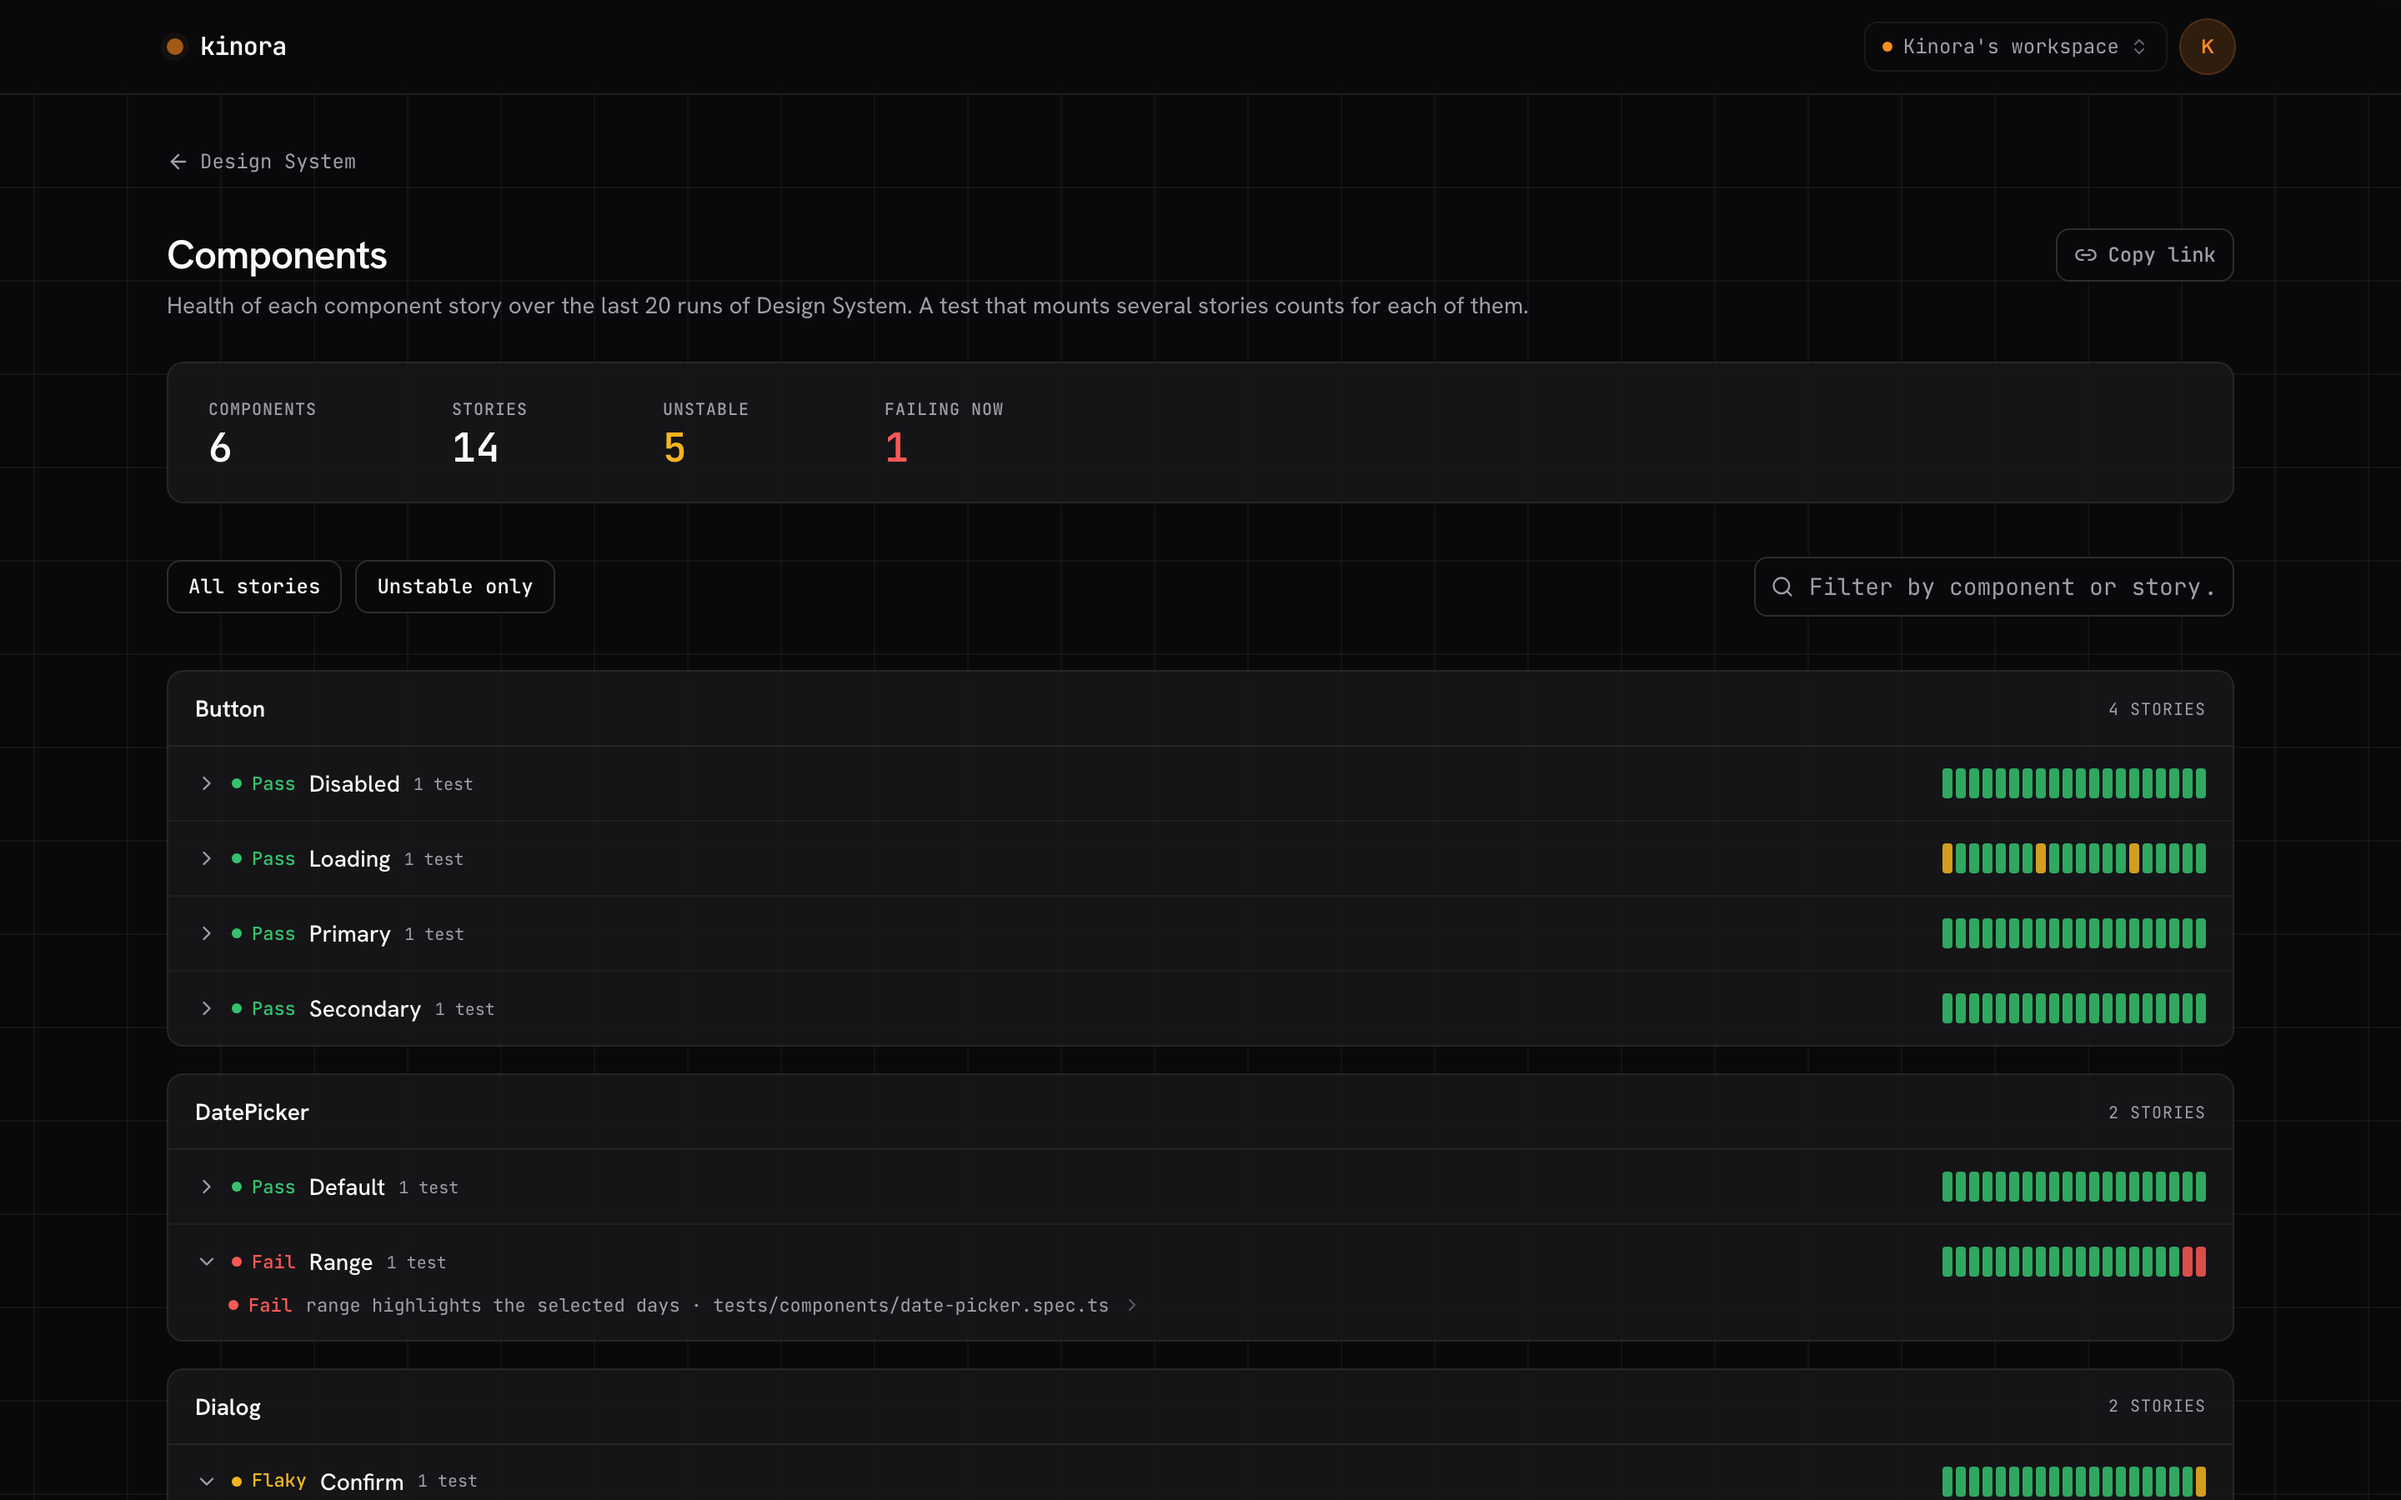
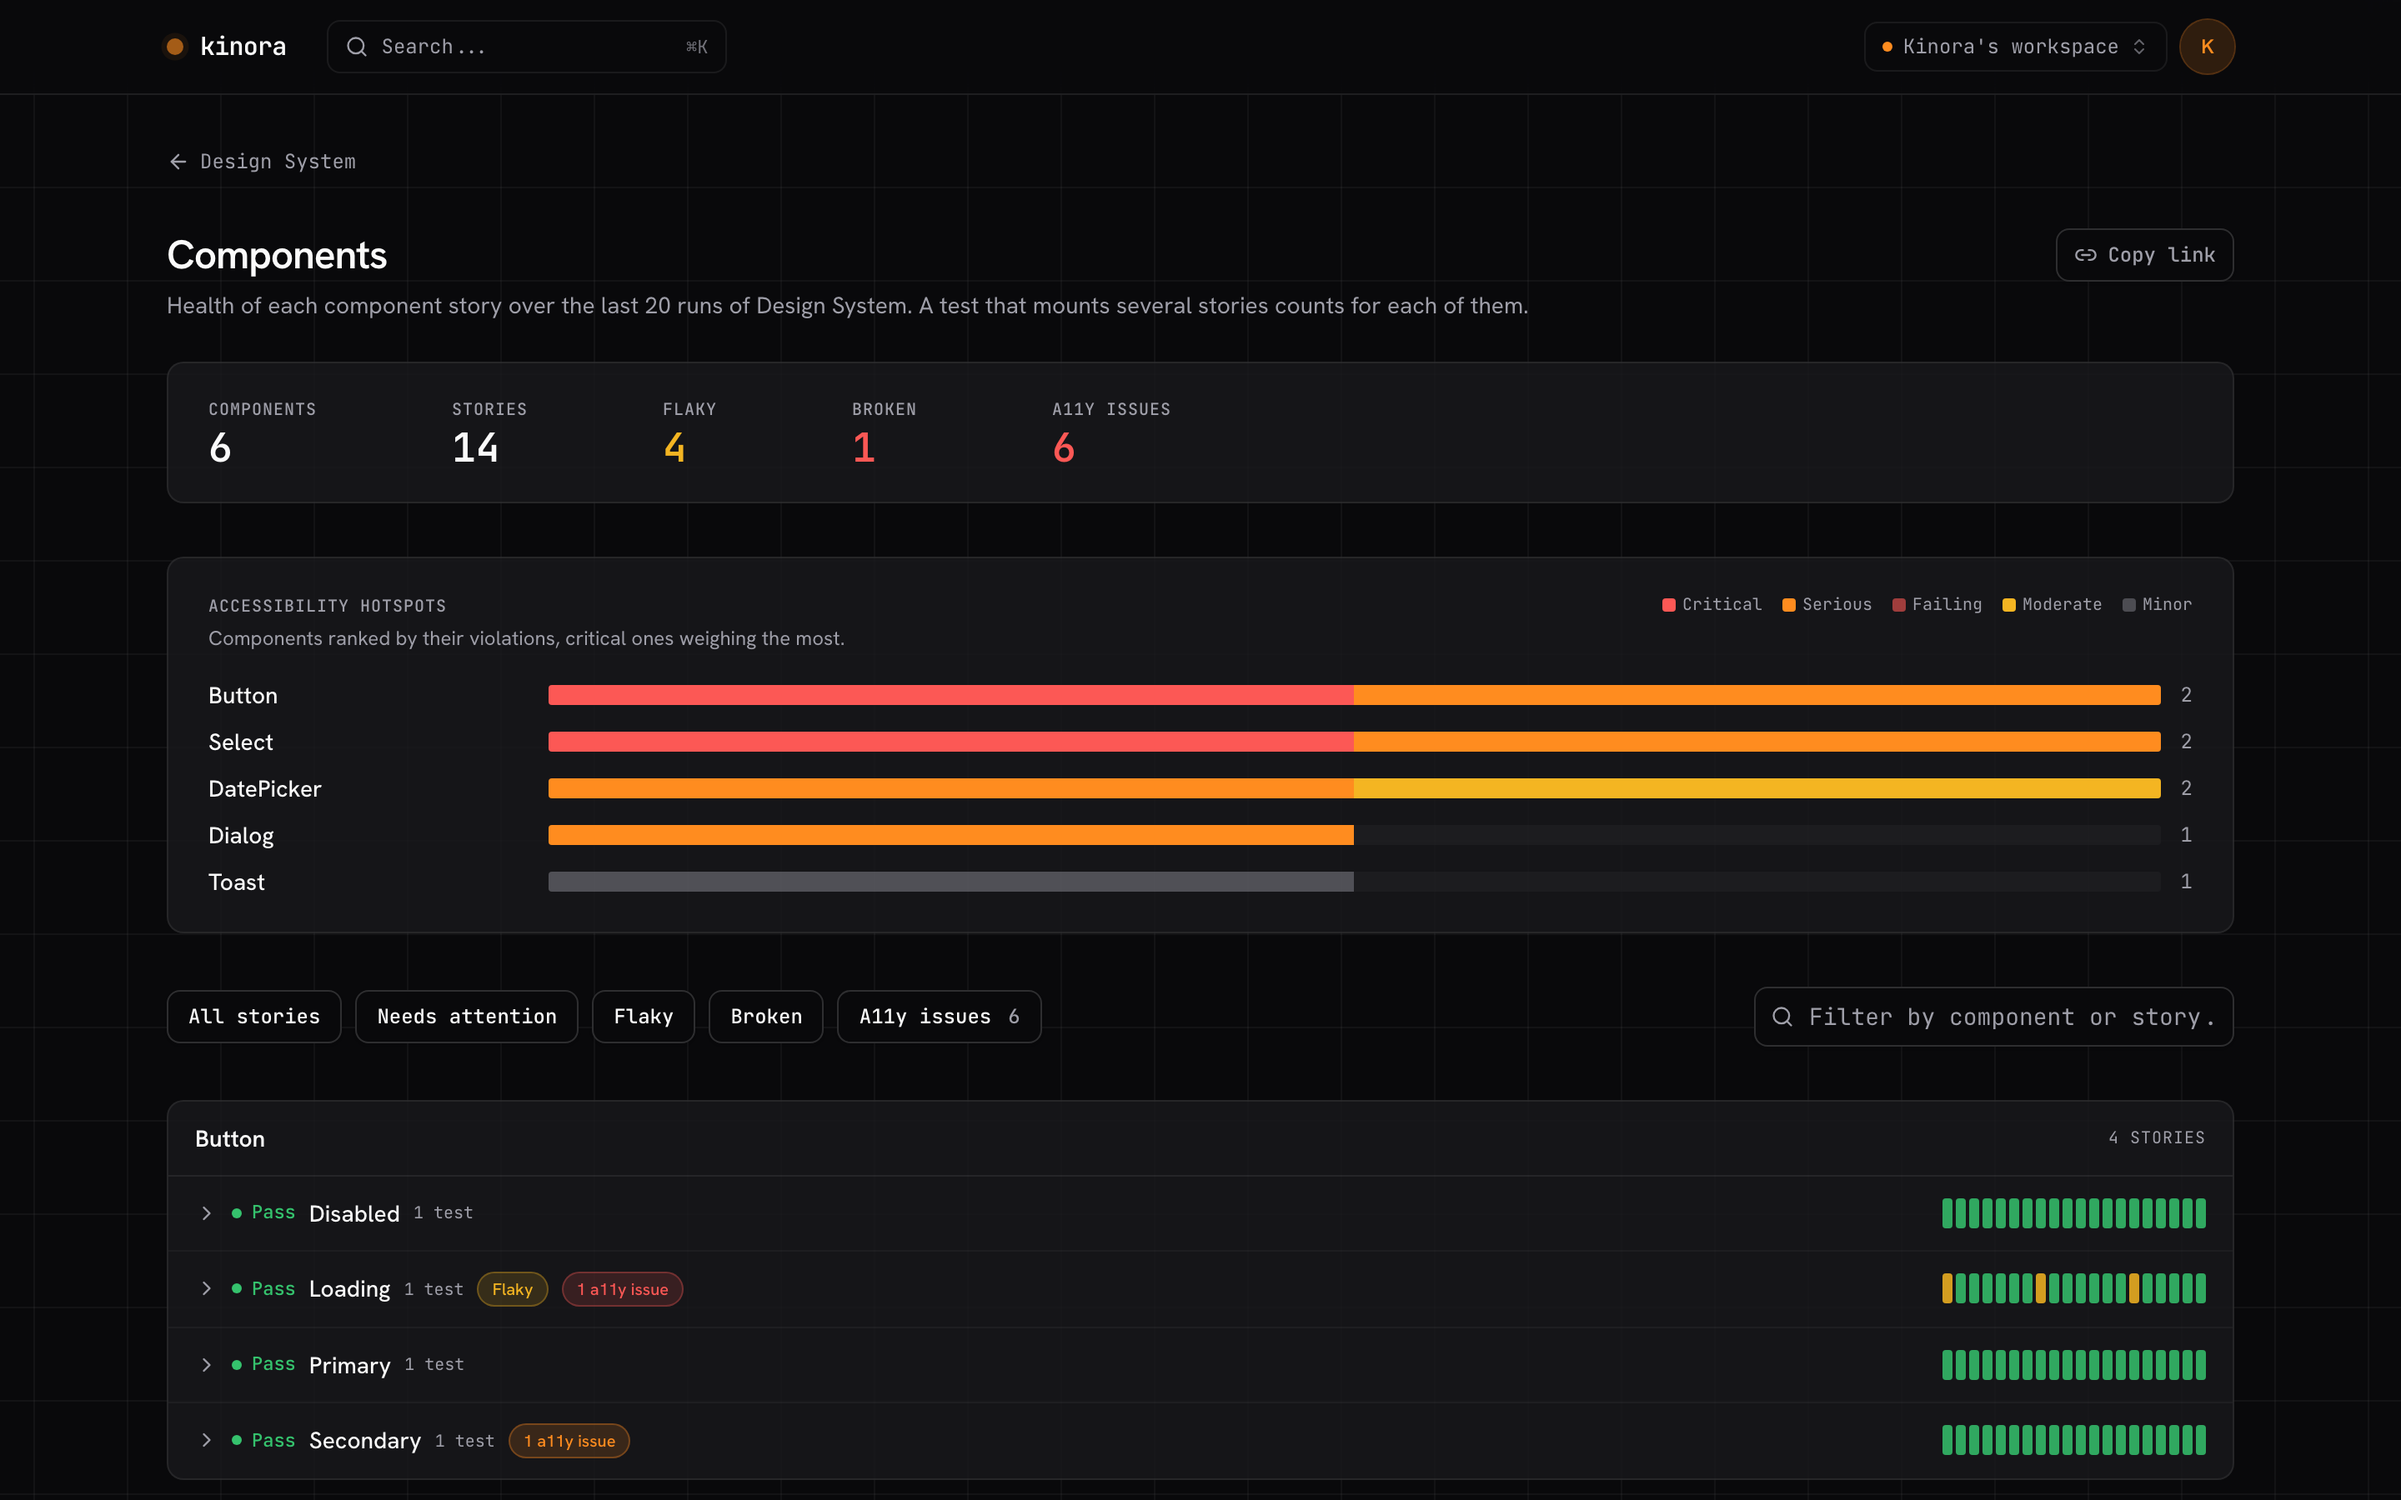
docs(website): cover analytics, flaky vs broken and accessibility, and refresh screenshots

diff --git a/website/src/pages/llms.txt.ts b/website/src/pages/llms.txt.ts
@@ -16,7 +16,7 @@ export const GET: APIRoute = () => {
 
   const body = `# kinora
 
-> kinora is an open-source dashboard for Playwright test reports across projects and over time, with an embedded trace viewer. CI runs push their results to kinora; it tracks pass rates, trends, and flaky tests, and opens the full Playwright trace inline for any failure.
+> kinora is an open-source dashboard for Playwright, Vitest browser-mode and Storybook test reports across projects and over time, with an embedded trace viewer. CI runs push their results to kinora; it tracks pass rates, trends, flaky and broken tests, and accessibility violations, and opens the full Playwright trace inline for any failure.
 
 Playwright ships a great HTML report for a single run on one machine. kinora sits one level up: it ingests every run from CI, keeps history, and lets you compare runs, watch pass-rate trends, and surface flaky tests over time. The Playwright trace viewer is embedded directly in the dashboard, so a red test is one click from its full trace.
 
@@ -45,6 +45,9 @@ ${comparisons}
 - License: FSL-1.1-MIT. Server, web, and desktop are FSL-1.1 (source-available, converts to MIT after 2 years); the embeddable libraries (reporter, CLI, core, ui) and the trace viewer are MIT.
 - Ingest: add @kinora/reporter to playwright.config, or upload results.json with the kinora CLI from CI. Both derive the same cross-run test identity, so history stays stable regardless of upload path.
 - Vitest and Storybook: add @kinora/vitest-reporter to vitest.config. It uploads browser-mode and Storybook tests (Node unit tests only with include: 'all'), their Playwright traces and screenshot comparisons, and maps each Storybook story to the Components page.
+- Flaky and broken tests: read from the last 20 runs of each test. Flaky = passed and failed on the same commit, needed a retry to pass, or flipped between pass and fail at least 3 times, so it works for suites that run without retries. Broken = fails and keeps failing; kinora names the run and commit where it started. Docs: ${SITE.docs}/guides/flaky-tests/
+- Analytics: per project, the share of passed, flaky and failed results over the last 30 days (per day) or 90 days (per week), filterable by branch.
+- Accessibility: kinora records axe scans. Playwright: attach the scan to the test as JSON (testInfo.attach), or call scanA11y(page) from @kinora/reporter/a11y, which runs @axe-core/playwright and attaches the result; asserting on the violations fails the test, not asserting keeps them as warnings. Storybook: the a11y addon's check is uploaded by @kinora/vitest-reporter. The dashboard lists violations by impact (critical, serious, moderate, minor) and ranks test files and components by them. Docs: ${SITE.docs}/guides/reporter/#accessibility
 - Artifacts: trace.zip files are stored on local disk by default, or in any S3-compatible store (AWS, Cloudflare R2, MinIO, Hetzner). Self-hosted, everything stays on your own infrastructure.
 - Alerts: per-project notifications on new failures and regressions via Slack, email, and webhook.
 - PR comments: on a GitHub pull_request run or a GitLab merge request pipeline, the reporter/CLI post a summary comment on the PR/MR (pass/fail, tests newly failing vs the base branch, link to the run). GitHub uses the CI job's GITHUB_TOKEN; GitLab uses a GITLAB_TOKEN CI variable. No credentials are stored in kinora; works self-host and cloud.

diff --git a/website/src/data/solutions.ts b/website/src/data/solutions.ts
@@ -124,6 +124,15 @@ export const SOLUTIONS: Solution[] = [
         body: 'Tests that flip between pass and fail across runs are surfaced and ranked, not buried inside a single run\'s retries.',
       },
       {
+        title: 'Flaky or broken',
+        body: 'A test that fails and keeps failing since a commit is broken, not flaky. kinora tells the two apart, says why, and names the commit where the breakage started.',
+        docs: [{ label: 'Flaky and broken tests', href: DOCS.flakyTests, event: 'docs-sol-flaky-rules' }],
+      },
+      {
+        title: 'No retries needed',
+        body: 'Playwright only reports a flake when a retry passes. kinora also reads it from the history: the same commit passing and failing, or a test that keeps flipping.',
+      },
+      {
         title: 'History behind every flake',
         body: 'See the full pass/fail timeline for a test to judge how bad a flake really is before you spend time on it.',
       },
@@ -140,7 +149,12 @@ export const SOLUTIONS: Solution[] = [
     faqs: [
       {
         q: 'How does kinora detect flaky tests?',
-        a: 'It compares each test\'s outcome across your run history. Tests that change status without a code change are flagged as flaky and ranked by how often they flip.',
+        a: 'It reads the last 20 runs of each test. A test is flaky when it passed and failed on the same commit, needed a retry to pass, or flipped between pass and fail at least 3 times. One bad run between two good ones is not enough: that is often a regression the next commit fixed.',
+        docs: [{ label: 'Flaky and broken tests', href: DOCS.flakyTests, event: 'docs-sol-flaky-faq' }],
+      },
+      {
+        q: 'What is the difference between a flaky and a broken test?',
+        a: 'A flaky test passes and fails on the same code: stabilize it or quarantine it. A broken test fails and keeps failing because a change broke it: fix it. kinora flags each test as one or the other and links a broken test to the run and commit where it started failing.',
       },
       {
         q: 'Can I get alerted about new flaky tests?',

diff --git a/website/src/pages/llms/setup.md.ts b/website/src/pages/llms/setup.md.ts
@@ -124,6 +124,27 @@ export default defineConfig({
 
 Only browser tests are uploaded; Node unit tests stay out unless the user asks for \`include: 'all'\`. If browser mode uses the Playwright provider, set \`trace: 'retain-on-failure'\` in its \`browser\` config so failures upload a trace, and do not set a custom \`tracesDir\`. Wire \`KINORA_TOKEN\` (and \`KINORA_URL\` for self-host) exactly as in the reporter path.
 
+## Accessibility (optional)
+
+Only if the repo already scans pages with \`@axe-core/playwright\` (search for \`AxeBuilder\`), or the user asks for accessibility tracking. kinora reads an axe scan from the test's attachments, so a scan that is only asserted on (\`expect(results.violations).toEqual([])\`) is invisible to it. Either attach the result before the assertion:
+
+\`\`\`ts
+const results = await new AxeBuilder({ page }).analyze()
+await testInfo.attach('accessibility-scan-results', { body: JSON.stringify(results), contentType: 'application/json' })
+expect(results.violations).toEqual([])
+\`\`\`
+
+or replace the scan with the reporter's helper, which runs it and attaches it (it needs \`@axe-core/playwright\` as a dev dependency):
+
+\`\`\`ts
+import { scanA11y } from '@kinora/reporter/a11y'
+
+const { violations } = await scanA11y(page)
+expect(violations).toEqual([])
+\`\`\`
+
+Keep existing assertions as they are: do not add or remove one, since that changes whether CI fails on violations. With Storybook's a11y addon and \`@kinora/vitest-reporter\`, nothing to do: the check of each story is uploaded as is.
+
 ## Done checklist
 
 - [ ] \`@kinora/reporter\` (or the CLI, or \`@kinora/vitest-reporter\`) is installed as a dev dependency.

diff --git a/website/src/data/faq.ts b/website/src/data/faq.ts
@@ -41,6 +41,16 @@ export const HOME_FAQS: Faq[] = [
     docs: [{ label: 'Vitest and Storybook guide', href: DOCS.vitest, event: 'docs-faq-vitest' }],
   },
   {
+    q: 'How does kinora detect flaky tests?',
+    a: 'Over the last 20 runs of a test. It is flaky when it passed and failed on the same commit, needed a retry to pass, or keeps flipping between pass and fail, so flakiness shows even when your suite runs without retries. A test that fails and keeps failing is broken instead, and kinora names the commit where it started.',
+    docs: [{ label: 'Flaky and broken tests', href: DOCS.flakyTests, event: 'docs-faq-flaky' }],
+  },
+  {
+    q: 'Does kinora track accessibility?',
+    a: 'Yes. It records the axe scans of your Playwright tests (attach the scan to the test, or use the scanA11y helper of @kinora/reporter) and the checks of Storybook\'s a11y addon. You get the rules broken with their impact, the elements they hit, and hotspots that rank your test files and components by violations. Violations can fail the test or stay warnings.',
+    docs: [{ label: 'Accessibility guide', href: DOCS.a11y, event: 'docs-faq-a11y' }],
+  },
+  {
     q: 'Does kinora work with my CI provider?',
     a: 'Yes, kinora is CI-agnostic. The ingest API is plain REST authed by an API key, so any CI provider such as GitHub Actions or GitLab CI, or a plain curl command, can push results.',
     docs: [{ label: 'REST API reference', href: DOCS.api, event: 'docs-faq-api' }],

diff --git a/website/src/lib/site.ts b/website/src/lib/site.ts
@@ -25,6 +25,8 @@ export const DOCS = {
   gettingStarted: `${SITE.docs}/getting-started/`,
   reporter: `${SITE.docs}/guides/reporter/`,
   vitest: `${SITE.docs}/guides/vitest/`,
+  flakyTests: `${SITE.docs}/guides/flaky-tests/`,
+  a11y: `${SITE.docs}/guides/reporter/#accessibility`,
   cli: `${SITE.docs}/guides/cli/`,
   mcp: `${SITE.docs}/guides/mcp/`,
   desktop: `${SITE.docs}/guides/desktop/`,

diff --git a/packages/reporter/README.md b/packages/reporter/README.md
@@ -71,6 +71,28 @@ Each mounted story id is recorded on the test as a `kinora:story` annotation. Al
 
 More in the [component testing guide](https://docs.kinora.dev/guides/component-testing/).
 
+## Accessibility
+
+kinora records the axe scans attached to a test: the rules broken, their impact and the elements
+they hit. `scanA11y` runs the scan with `@axe-core/playwright` (add it to your dev dependencies)
+and attaches the result:
+
+```ts
+import { scanA11y } from '@kinora/reporter/a11y'
+import { expect, test } from '@playwright/test'
+
+test('checkout is accessible', async ({ page }) => {
+  await page.goto('/checkout')
+  const { violations } = await scanA11y(page)
+  expect(violations).toEqual([]) // leave it out to record the violations as warnings
+})
+```
+
+A scan you build yourself works too, as long as it is attached to the test with
+`testInfo.attach(name, { body: JSON.stringify(results), contentType: 'application/json' })`.
+An assertion alone is invisible to a reporter. More in the
+[accessibility guide](https://docs.kinora.dev/guides/reporter/#accessibility).
+
 ## Documentation
 
 Full reporter options, PR/MR comments, CI examples, and self-hosting are in the docs:

diff --git a/README.md b/README.md
@@ -33,7 +33,7 @@
   </picture>
 </p>
 
-Playwright ships a great HTML report for a single run. kinora sits one level up: push every CI run to a kinora server and get one place to track pass rates, spot trends, and surface flaky tests over time. Failing tests get a **View trace** button that opens the full Playwright trace (DOM, timeline, network, console) right in the dashboard.
+Playwright ships a great HTML report for a single run. kinora sits one level up: push every CI run to a kinora server and get one place to track pass rates, spot trends, tell flaky tests from broken ones, and follow accessibility violations over time. Failing tests get a **View trace** button that opens the full Playwright trace (DOM, timeline, network, console) right in the dashboard.
 
 ## Send your tests
 

diff --git a/packages/mcp/README.md b/packages/mcp/README.md
@@ -1,6 +1,6 @@
 # @kinora/mcp
 
-MCP server that exposes your [kinora](https://kinora.dev) test data (Playwright, Vitest browser mode, Storybook) to coding agents (Claude Code, Cursor, Claude Desktop, Windsurf, …). Point an agent at your last CI failures and let it pull the error, the trace, and the flaky-vs-regression history to debug the fix.
+MCP server that exposes your [kinora](https://kinora.dev) test data (Playwright, Vitest browser mode, Storybook) to coding agents (Claude Code, Cursor, Claude Desktop, Windsurf, …). Point an agent at your last CI failures and let it pull the error, the trace, whether a test is flaky or broken (and why), and the accessibility violations of a test or story, to debug the fix.
 
 ## Setup
 

diff --git a/packages/vitest-reporter/README.md b/packages/vitest-reporter/README.md
@@ -37,6 +37,13 @@ Create an API token in the kinora dashboard (Settings → Workspace). Self-hosti
 
 Only browser tests are uploaded by default: Node unit tests are usually thousands of fast tests with no trace, and would eat your plan's monthly result quota. Upload them too with `include: 'all'`.
 
+## Accessibility
+
+With Storybook's a11y addon, each story's check is uploaded too: the rules broken, their impact
+and the elements they hit, ranked by component on the Components page. Use the addon's `todo`
+mode to keep the impact: in `error` mode, Storybook drops the check when the story fails and
+kinora reads the violations from the failure instead.
+
 ## Documentation
 
 **https://docs.kinora.dev/guides/vitest/**
